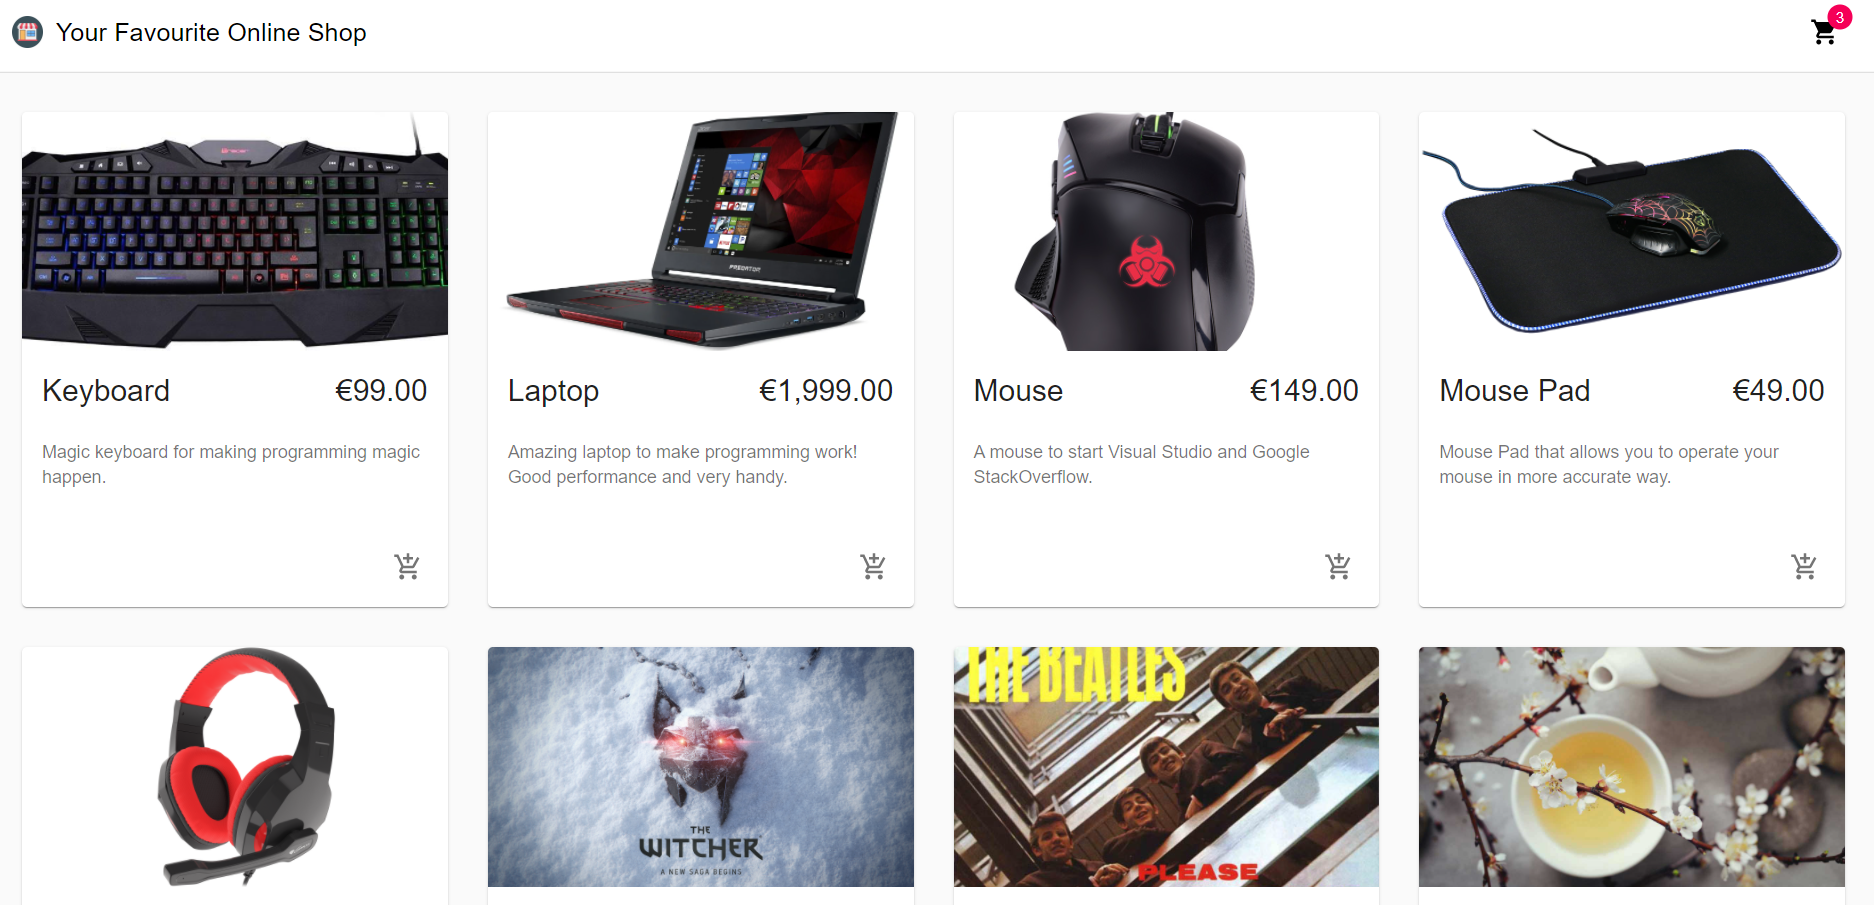
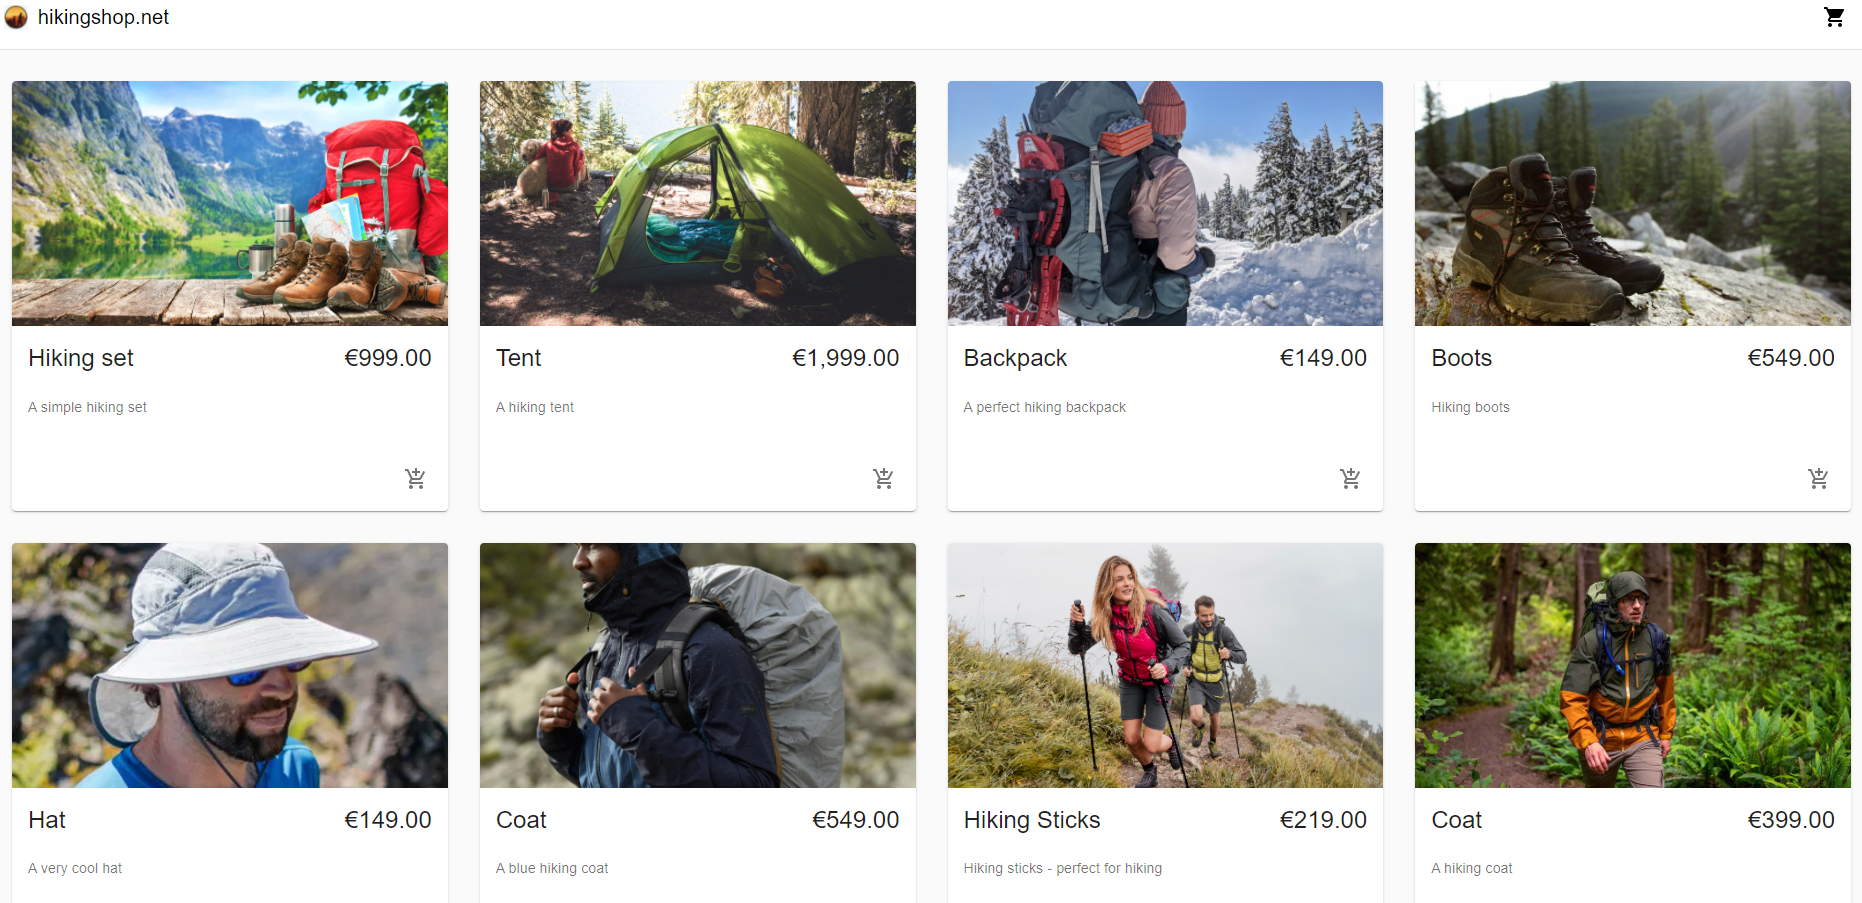
Projects

diff --git a/portfolio-website/src/constants/constants.js b/portfolio-website/src/constants/constants.js
@@ -12,20 +12,20 @@ export const projects = [
     title: 'E-Commerce',
     description:"Building an E-Commerce project to get a hands-on experience and practical skills used in the industry. Exploring React & JavaScript to learn advanced topics, and gain experience precisely where it is recquired. The projects was completed using commerce.js for backend and Stripe for card transactions.",
     image: '/images/2.png',
-    tags: ['React', 'JavaScript'],
+    tags: ['React', 'JavaScript', 'Stripe'],
     source: 'https://github.com/Pekillen/Projects/tree/main/e-commerce',
-    visit: 'https://youronlineshop.netlify.app/',
+    visit: 'https://hikingshopnet.netlify.app/',
     id: 1,
   },  
-  {
-    title: 'Portfolio',
-    description: "Building this Portfolio allowed me to revisit and reapply concepts and technics I discovered and learned during preparation of the previous Projects. This is a summury of the work that I have done and a sort of a business-card.",
-    image: '/images/3.png',
-    tags: ['React', 'JavaScript', 'HTML'],  
-    source: 'https://github.com/Pekillen/Projects/tree/main/portfolio-website',
-    visit: 'https://piotrkwiatkowski.netlify.app/',
-    id: 2,
-  }
+  // {
+  //   title: 'Portfolio',
+  //   description: "Building this Portfolio allowed me to revisit and reapply concepts and technics I discovered and learned during preparation of the previous Projects. This is a summury of the work that I have done and a sort of a business-card.",
+  //   image: '/images/3.png',
+  //   tags: ['React', 'JavaScript', 'CSS'],  
+  //   source: 'https://github.com/Pekillen/Projects/tree/main/portfolio-website',
+  //   visit: 'https://piotrkwiatkowski.netlify.app/',
+  //   id: 2,
+  // }
 ];
 
 export const TimeLineData = [

diff --git a/portfolio-website/src/components/Projects/Projects.js b/portfolio-website/src/components/Projects/Projects.js
@@ -27,8 +27,8 @@ const Projects = () => (
             </TagList>
           </div>
           <UtilityList>
-            <ExternalLinks href={visit}>Code</ExternalLinks>
-            <ExternalLinks href={source}>Source</ExternalLinks>
+            <ExternalLinks href={visit}>App</ExternalLinks>
+            <ExternalLinks href={source}>Code</ExternalLinks>
           </UtilityList>
         </BlogCard>
       ))}

diff --git a/e-commerce/public/index.html b/e-commerce/public/index.html
@@ -11,7 +11,7 @@
     />
     <link rel="apple-touch-icon" href="%PUBLIC_URL%/logo192.png" />    
     <link rel="manifest" href="%PUBLIC_URL%/manifest.json" />    
-    <title>E-Commerce</title>
+    <title>hikingshop.net</title>
   </head>
   <body>
     <noscript>You need to enable JavaScript to run this app.</noscript>

diff --git a/memories-project/server/middleware/auth.js b/memories-project/server/middleware/auth.js
@@ -19,7 +19,7 @@ const auth = async ( req, res, next) => {
 
         next();
     } catch (error) {
-        console.log(error);
+        console.log(error); 
     }
 }
 
